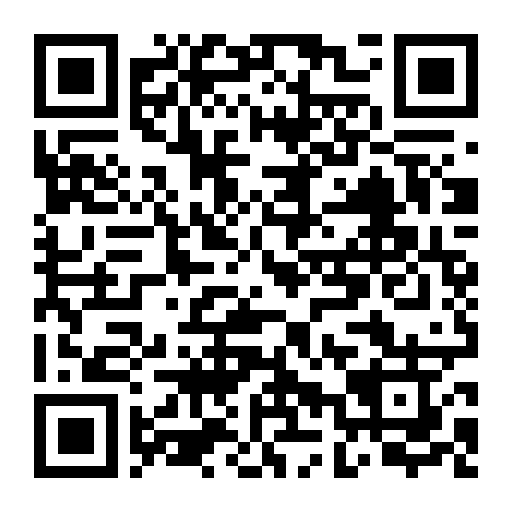
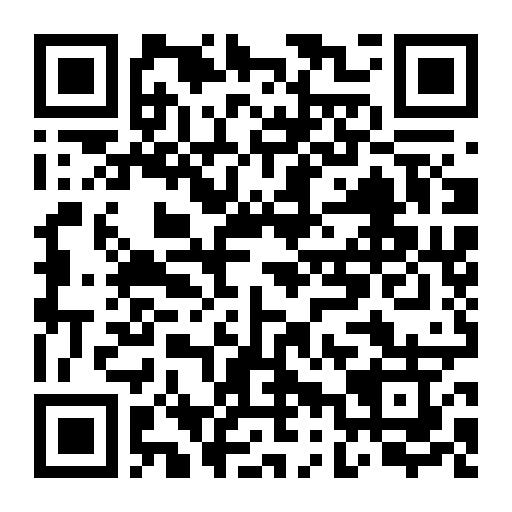
0.25.0: out of alpha — and the old asset name stays published anyway
Alpha -> beta everywhere it is visible: the download filename, the README, the parent's
"while Walcott is in alpha" note about the locks we don't offer (EN + ES), and the comments
that justified a committed keystore.

The one thing that could have broken: walcott-alpha.apk is the name every already-installed
parent app encodes into the onboarding QR it shows. Renaming the asset outright would 404
those scans until each parent happened to update. So every release now publishes BOTH names
from the same build — walcott-beta.apk as the canonical one that version.json points at, and
walcott-alpha.apk as a byte-identical copy that costs one cp and never breaks anybody. The
alias is documented in three places so a future cleanup doesn't quietly delete it.

Auto-update was never at risk and I checked rather than assumed: Updater downloads the url
carried inside version.json and only validates the host prefix, so it follows the rename by
itself, on every installed version.

QR in the README regenerated for the new URL and decoded back to confirm it.

Claude-Session: https://claude.ai/code/session_01SkZ29cjodzZa5HNLosYFBJ

Changed region(s): [[0.0625, 0.0625, 0.625, 0.9375], [0.875, 0.4375, 0.9375, 0.5], [0.5312, 0.4375, 0.5625, 0.4688]]

diff --git a/app/src/main/kotlin/dev/walcott/Distribution.kt b/app/src/main/kotlin/dev/walcott/Distribution.kt
@@ -2,8 +2,15 @@ package dev.walcott
 
 /** Distribution constants. Keep the asset names stable so existing QR codes / installs keep working. */
 object Distribution {
-    /** Stable URL that always points to the latest release's APK asset. */
-    const val CHILD_APK_URL = "https://github.com/olemoudi/walcott/releases/latest/download/walcott-alpha.apk"
+    /**
+     * Stable URL that always points to the latest release's APK asset.
+     *
+     * Renamed from `walcott-alpha.apk` when the app went to beta. Every release still publishes
+     * the old name as a byte-identical copy, because a parent phone that hasn't updated yet is
+     * still showing a QR that encodes it — dropping the alias would 404 those onboarding scans.
+     * Auto-update was never at risk: it follows the url inside version.json, not this constant.
+     */
+    const val CHILD_APK_URL = "https://github.com/olemoudi/walcott/releases/latest/download/walcott-beta.apk"
 
     /** Small JSON published by CI describing the latest release (version code + apk url). */
     const val VERSION_JSON_URL = "https://github.com/olemoudi/walcott/releases/latest/download/version.json"

diff --git a/app/src/main/kotlin/dev/walcott/enforcement/DeviceRestrictions.kt b/app/src/main/kotlin/dev/walcott/enforcement/DeviceRestrictions.kt
@@ -12,7 +12,7 @@ import dev.walcott.WalcottAdminReceiver
  * No-ops on devices that aren't Device Owner. Only the restrictions listed here are
  * ever touched, so Walcott never clears a restriction it doesn't own.
  *
- * Deliberately NOT offered while the app is alpha: blocking factory reset, safe mode,
+ * Deliberately NOT offered while the app is beta: blocking factory reset, safe mode,
  * sideloading or USB debugging. Those are the recovery paths if Walcott itself
  * misbehaves — locking them could leave the device unrecoverable. The parent gets a
  * check-in staleness alert instead (see StaleChildWorker).

diff --git a/CLAUDE.md b/CLAUDE.md
@@ -199,9 +199,10 @@ These are standing rules for this repository. Follow them without being re-asked
 ### Distribution & releases
 - GitHub remote: `https://github.com/olemoudi/walcott.git`.
 - This is a sideloaded, personal/family app (not Play Store).
-- **Release signing uses a stable, committed keystore** (`walcott-release.jks`, password `walcott`) so in-place auto-updates chain across releases. This is deliberate for an alpha family app with no secrets; CI can override with `SIGNING_STORE_FILE`/`SIGNING_STORE_PASSWORD`/`SIGNING_KEY_ALIAS`/`SIGNING_KEY_PASSWORD` env if you'd rather keep the key in a secret. **Never re-sign with a different key** — it breaks the update chain and requires a reinstall.
-- Releases are published by GitHub Actions on pushing a tag matching `v*`. The workflow builds `assembleRelease` and attaches two assets with **stable names**: `walcott-alpha.apk` and `version.json`.
-- Stable URLs: APK at `…/releases/latest/download/walcott-alpha.apk` (in-app QR points here); `version.json` at `…/releases/latest/download/version.json`. Keep the names stable so old QRs and installed apps keep working.
+- **Release signing uses a stable, committed keystore** (`walcott-release.jks`, password `walcott`) so in-place auto-updates chain across releases. This is deliberate for a beta family app with no secrets; CI can override with `SIGNING_STORE_FILE`/`SIGNING_STORE_PASSWORD`/`SIGNING_KEY_ALIAS`/`SIGNING_KEY_PASSWORD` env if you'd rather keep the key in a secret. **Never re-sign with a different key** — it breaks the update chain and requires a reinstall.
+- Releases are published by GitHub Actions on pushing a tag matching `v*`. The workflow builds `assembleRelease` and attaches three assets with **stable names**: `walcott-beta.apk`, `walcott-alpha.apk` (a byte-identical copy) and `version.json`.
+- Stable URLs: APK at `…/releases/latest/download/walcott-beta.apk` (in-app QR points here); `version.json` at `…/releases/latest/download/version.json`. Keep the names stable so old QRs and installed apps keep working.
+- **`walcott-alpha.apk` must keep being published**, identical bytes, even though nothing new points at it. It was the canonical name before the app went to beta in 0.25.0, and a parent phone that hasn't updated yet still shows an onboarding QR encoding it; dropping it would 404 those scans. Auto-update never depended on either name — `Updater` follows the url inside `version.json` and only checks the host prefix.
 - **Bumping a version:** raise `versionCode` (and `versionName`) in `app/build.gradle.kts`, then push a `v*` tag. CI derives `version.json` from `versionCode`.
 
 ### Auto-update

diff --git a/README.md b/README.md
@@ -22,7 +22,7 @@ Point your phone's camera at this code, or tap the link below.
 
 <img src="docs/download-qr.png" width="200" alt="QR code linking to the latest Walcott APK">
 
-**[github.com/olemoudi/walcott/releases/latest/download/walcott-alpha.apk](https://github.com/olemoudi/walcott/releases/latest/download/walcott-alpha.apk)**
+**[github.com/olemoudi/walcott/releases/latest/download/walcott-beta.apk](https://github.com/olemoudi/walcott/releases/latest/download/walcott-beta.apk)**
 
 The same app is both the parent app and the child app — you choose which on first launch.
 Android 10 or newer. Once installed, Walcott keeps itself up to date from this same page.
@@ -30,8 +30,9 @@ Android 10 or newer. Once installed, Walcott keeps itself up to date from this s
 Your phone will warn you that the file comes from outside the Play Store, and Play Protect
 may offer to scan it first — that is normal for any app installed this way.
 
-> **Alpha software.** Walcott is used by its author's family and is offered as-is. Try it on a
-> phone you can afford to factory-reset.
+> **Beta software.** Walcott is used by its author's family every day and is offered as-is.
+> The child's phone has to be set up from scratch, so try it on a phone you can afford to
+> factory-reset.
 
 ## What it does
 
